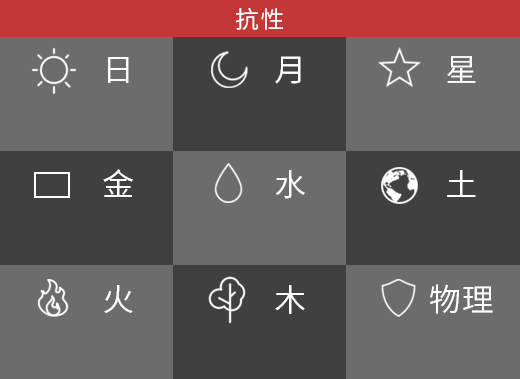
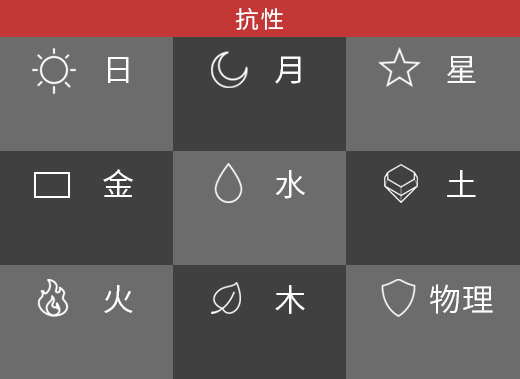
ui design~

Changed region(s): [[0.7077, 0.4354, 0.8308, 0.5515], [0.4, 0.7256, 0.4923, 0.8417]]

diff --git a/core/src/com/rpsg/rpg/view/menu/StatusView.java b/core/src/com/rpsg/rpg/view/menu/StatusView.java
@@ -17,6 +17,8 @@ import com.badlogic.gdx.scenes.scene2d.utils.Align;
 import com.badlogic.gdx.utils.Scaling;
 import com.badlogic.gdx.utils.viewport.ScalingViewport;
 import com.rpsg.gdxQuery.$;
+import com.rpsg.gdxQuery.GdxQuery;
+import com.rpsg.gdxQuery.GdxQueryRunnable;
 import com.rpsg.rpg.core.Setting;
 import com.rpsg.rpg.io.Music;
 import com.rpsg.rpg.object.base.EmptyAssociation;
@@ -26,6 +28,8 @@ import com.rpsg.rpg.object.base.items.Equipment;
 import com.rpsg.rpg.object.rpg.Hero;
 import com.rpsg.rpg.system.base.Res;
 import com.rpsg.rpg.system.controller.HeroController;
+import com.rpsg.rpg.system.ui.CheckBox;
+import com.rpsg.rpg.system.ui.CheckBox.CheckBoxStyle;
 import com.rpsg.rpg.system.ui.DefaultIView;
 import com.rpsg.rpg.system.ui.Image;
 import com.rpsg.rpg.system.ui.ImageButton;
@@ -39,9 +43,9 @@ public class StatusView extends DefaultIView {
 	Group group,inner;
 	public void init() {
 		stage=new Stage(new ScalingViewport(Scaling.stretch, GameUtil.screen_width, GameUtil.screen_height, new OrthographicCamera()),MenuView.stage.getBatch());
-		group=(Group) $.add(new Group()).setHeight(1500).getItem();
+		group=(Group) $.add(new Group()).setHeight(1750).getItem();
 		$.add(Res.get(Setting.GAME_RES_IMAGE_MENU_NEW_GLOBAL+"menu_fg_shadow.png").disableTouch()).appendTo(group).setPosition(50, y(30)).setColor(1,1,1,0).addAction(Actions.parallel(Actions.fadeIn(.3f),Actions.moveTo(50, y(180),0.3f,Interpolation.pow4Out)));
-		inner=(Group) $.add(new Group()).setHeight(1500).appendTo(group).getItem();
+		inner=(Group) $.add(new Group()).setHeight(1750).appendTo(group).getItem();
 		$.add(new ScrollPane(group)).setSize(GameUtil.screen_width-190, GameUtil.screen_height).setX(190).appendTo(stage);
 //		stage.setDebugAll(true);
 		generate();
@@ -94,13 +98,48 @@ public class StatusView extends DefaultIView {
 			Equipment equip=parent.current.equips.get(key);
 			yoff+=90;
 			if(equip!=null) {
-				$.add(Res.get(equip.icon)).appendTo(group4).setPosition(30, yoff);
+				$.add(Res.get(equip.icon)).appendTo(group4).setPosition(12, yoff-84).setColor(Color.RED).setSize(73,70);
 				$.add(new Label(equip.illustration,16).setPos(100, yoff-55).setWidth(385)).appendTo(group4);
 			}
-			$.add(new Label(equip==null?"无":equip.name,30).setPos(90, yoff-(equip==null?37:18))).appendTo(group4);
+			$.add(new Label(equip==null?"无装备":equip.name,30).setPos(equip!=null?90:240, yoff-(equip==null?37:18))).appendTo(group4);
 		}
 		
+		Group group5=(Group) $.add(new Group()).setX(70).addAction(Actions.parallel(Actions.moveTo(70,y(1442),1f,Interpolation.pow4Out),Actions.fadeIn(0.4f))).setColor(1, 1, 1,0).appendTo(inner).getItem();
+		$.add(Res.get(Setting.GAME_RES_IMAGE_MENU_NEW_STATUS+"p.png")).appendTo(group5);
+		int count=-1;
+		for(String key:parent.current.resistance.keySet())
+			$.add(Res.get(Setting.GAME_RES_IMAGE_MENU_NEW_STATUS+parent.current.resistance.get(key).name()+".png")).appendTo(group5).setPosition(38+(174*(++count%3)), 247-(count>=3 && count <6?115:count>=6?228:0));
+		CheckBoxStyle cstyle=new CheckBoxStyle();
+		cstyle.checkboxOff=Res.getDrawable(Setting.GAME_RES_IMAGE_MENU_NEW_STATUS+"help.png");
+		cstyle.checkboxOn=Res.getDrawable(Setting.GAME_RES_IMAGE_MENU_NEW_STATUS+"help_p.png");// help button press
+		final Image phelp=(Image) $.add(Res.get(Setting.GAME_RES_IMAGE_MENU_NEW_STATUS+"p_help.png")).appendTo(group5).setColor(1,1,1,0).getItem();//resistance help button
+		$.add(new CheckBox("", cstyle, 1)).appendTo(group5).setPosition(392,342).run(new GdxQueryRunnable() {public void run(final GdxQuery self) {self.onClick(new Runnable() {public void run() {
+			phelp.addAction(self.isChecked()?Actions.fadeIn(0.3f):Actions.fadeOut(0.3f));
+		}});}});
 		
+		if(parent.current.lead){
+			Group group6=(Group) $.add(new Group()).setX(70).addAction(Actions.parallel(Actions.moveTo(70,y(1702),1f,Interpolation.pow4Out),Actions.fadeIn(0.4f))).setColor(1, 1, 1,0).appendTo(inner).getItem();
+			$.add(Res.get(Setting.GAME_RES_IMAGE_MENU_NEW_STATUS+"person.png")).appendTo(group6);
+			$.add(Res.get(Setting.UI_BASE_IMG)).setSize(350,24).setPosition(87, 159).appendTo(group6);
+			$.add(Res.get(Setting.UI_BASE_PRO)).setSize(0,18).setPosition(90, 162).appendTo(group6).setColor(Color.valueOf("717171")).addAction(Actions.delay(0.4f,Actions.sizeTo(((float)parent.current.prop.get("courage")/100f)*344, 18,0.6f,Interpolation.pow4Out)));
+			$.add(Res.get(Setting.UI_BASE_IMG)).setSize(350,24).setPosition(87, 121).appendTo(group6);
+			$.add(Res.get(Setting.UI_BASE_PRO)).setSize(0,18).setPosition(90, 124).appendTo(group6).setColor(Color.valueOf("717171")).addAction(Actions.delay(0.4f,Actions.sizeTo(((float)parent.current.prop.get("express")/100f)*344, 18,0.6f,Interpolation.pow4Out)));
+			$.add(Res.get(Setting.UI_BASE_IMG)).setSize(350,24).setPosition(87, 83).appendTo(group6);
+			$.add(Res.get(Setting.UI_BASE_PRO)).setSize(0,18).setPosition(90, 87).appendTo(group6).setColor(Color.valueOf("717171")).addAction(Actions.delay(0.4f,Actions.sizeTo(((float)parent.current.prop.get("respect")/100f)*344, 18,0.6f,Interpolation.pow4Out)));
+			$.add(Res.get(Setting.UI_BASE_IMG)).setSize(350,24).setPosition(87, 45).appendTo(group6);
+			$.add(Res.get(Setting.UI_BASE_PRO)).setSize(0,18).setPosition(90, 48).appendTo(group6).setColor(Color.valueOf("717171")).addAction(Actions.delay(0.4f,Actions.sizeTo(((float)parent.current.prop.get("perseverance")/100f)*344, 18,0.6f,Interpolation.pow4Out)));
+			$.add(Res.get(Setting.UI_BASE_IMG)).setSize(350,24).setPosition(87, 7).appendTo(group6);
+			$.add(Res.get(Setting.UI_BASE_PRO)).setSize(0,18).setPosition(90, 10).appendTo(group6).setColor(Color.valueOf("717171")).addAction(Actions.delay(0.4f,Actions.sizeTo(((float)parent.current.prop.get("knowledge")/100f)*344, 18,0.6f,Interpolation.pow4Out)));
+			$.add(new Label(parent.current.prop.get("courage")+"",22).align(479, 179).setPad(-8)).appendTo(group6);
+			$.add(new Label(parent.current.prop.get("express")+"",22).align(479, 141).setPad(-8)).appendTo(group6);
+			$.add(new Label(parent.current.prop.get("respect")+"",22).align(479, 103).setPad(-8)).appendTo(group6);
+			$.add(new Label(parent.current.prop.get("perseverance")+"",22).align(479, 65).setPad(-8)).appendTo(group6);
+			$.add(new Label(parent.current.prop.get("knowledge")+"",22).align(479, 27).setPad(-8)).appendTo(group6);
+			final Image pe_help=(Image) $.add(Res.get(Setting.GAME_RES_IMAGE_MENU_NEW_STATUS+"person_help.png")).appendTo(group6).setColor(1,1,1,0).getItem();//resistance help button
+			$.add(new CheckBox("", cstyle, 1)).appendTo(group6).setPosition(392,190).run(new GdxQueryRunnable() {public void run(final GdxQuery self) {self.onClick(new Runnable() {public void run() {
+				pe_help.addAction(self.isChecked()?Actions.fadeIn(0.3f):Actions.fadeOut(0.3f));
+			}});}});
+		}
 	}
 	
 

diff --git a/core/src/com/rpsg/rpg/object/rpg/Hero.java b/core/src/com/rpsg/rpg/object/rpg/Hero.java
@@ -3,6 +3,7 @@ package com.rpsg.rpg.object.rpg;
 
 import java.util.ArrayList;
 import java.util.HashMap;
+import java.util.LinkedHashMap;
 import java.util.List;
 import java.util.Map;
 
@@ -61,22 +62,22 @@ public abstract class Hero extends IRPGObject {
 
 	public boolean lead=false;
 	
-	public Map<String,Resistance> resistance=new HashMap<String, Resistance>();
+	public LinkedHashMap<String,Resistance> resistance=new LinkedHashMap<String, Resistance>();
 	{
+		resistance.put("sun", Resistance.normal);
+		resistance.put("moon", Resistance.normal);
+		resistance.put("star", Resistance.normal);
+		resistance.put("metal", Resistance.normal);
+		resistance.put("water", Resistance.normal);
 		resistance.put("earth", Resistance.normal);
 		resistance.put("fire", Resistance.normal);
-		resistance.put("metal", Resistance.normal);
-		resistance.put("moon", Resistance.normal);
-		resistance.put("physical", Resistance.normal);
-		resistance.put("star", Resistance.normal);
-		resistance.put("sun", Resistance.normal);
-		resistance.put("water", Resistance.normal);
 		resistance.put("wood", Resistance.normal);
+		resistance.put("physical", Resistance.normal);
 	}
 	
 	public List<SpellCard> sc=new ArrayList<SpellCard>();
 	
-	public Map<String,Equipment> equips=new HashMap<String, Equipment>();
+	public LinkedHashMap<String,Equipment> equips=new LinkedHashMap<String, Equipment>();
 	{
 		equips.put(Equipment.EQUIP_SHOES, null);
 		equips.put(Equipment.EQUIP_CLOTHES, null);

diff --git a/core/src/com/rpsg/rpg/game/hero/Arisu.java b/core/src/com/rpsg/rpg/game/hero/Arisu.java
@@ -25,16 +25,16 @@ public class Arisu extends Hero{
 		prop.put("exp", 3);
 		prop.put("mp", 100);
 		prop.put("maxmp", 100);
-		resistance.put("earth", Resistance.reflect);
-		resistance.put("metal", Resistance.invalid);
-		resistance.put("sun", Resistance.weak);
+		resistance.replace("earth", Resistance.reflect);
+		resistance.replace("metal", Resistance.invalid);
+		resistance.replace("sun", Resistance.weak);
 		prop.put("chop", Hero.TRUE);
 		prop.put("prick", Hero.TRUE);
 		color="59669ecc";
 		equips.put(Equipment.EQUIP_SHOES, new TestEquip());
 		
 		lead=true;
-		prop.put("courage", 15);			//勇气
+		prop.put("courage", 100);			//勇气
 		prop.put("perseverance", 44);		//毅力
 		prop.put("express", 12);			//表达
 		prop.put("knowledge", 74);			//知识

diff --git a/core/src/com/rpsg/rpg/object/base/Persistence.java b/core/src/com/rpsg/rpg/object/base/Persistence.java
@@ -18,7 +18,7 @@ public class Persistence implements Serializable{
 	public int seVolume = 100;
 	public int textSpeed = 2;
 	public boolean showFPS = false;
-	public boolean debugMod = true;
+	public boolean debugMod = false;
 	public boolean onErrorSendMsg = true;
 	public boolean touchMod = false;
 	public boolean betterLight = true;

diff --git a/core/src/com/rpsg/gdxQuery/GdxQuery.java b/core/src/com/rpsg/gdxQuery/GdxQuery.java
@@ -499,5 +499,11 @@ public class GdxQuery {
 				((Button)actor).setDisabled(b);
 		return this;
 	}
+	
+	public boolean isChecked(){
+		if(getItem() instanceof Button)
+			return ((Button)getItem()).isChecked();
+		return false;
+	}
 
 }
